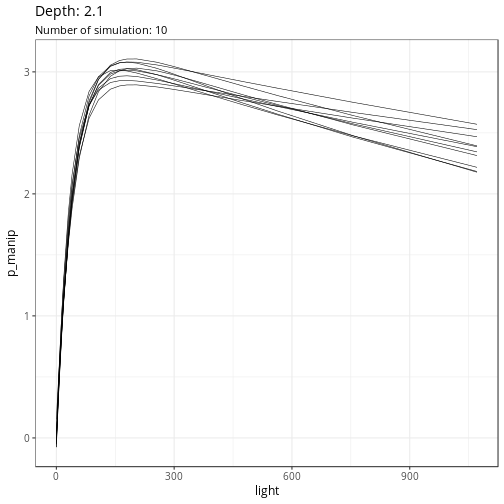
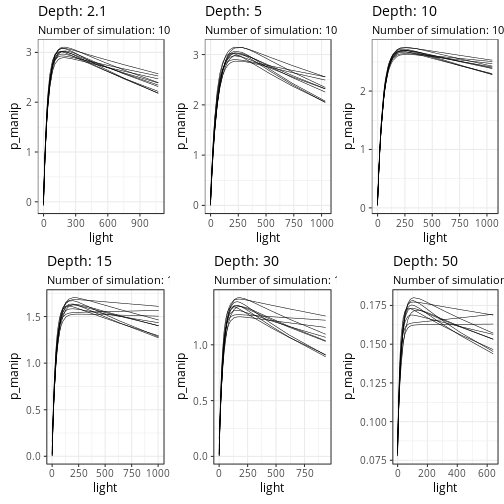
update the calculation

diff --git a/reports/pp.md b/reports/pp.md
@@ -8,7 +8,7 @@
 # <><><><><><><><><><><><><><><><><><><><><><><><><><><><><><><><><><><><><><>
 ```
 
-Last updated: 2016-11-29 15:58:05
+Last updated: 2016-11-29 15:59:02
 ## Open the PS file and do some cleaning
 
 
@@ -227,47 +227,10 @@ NOT FINISHED
 
 
 ```r
-map2(mod$simulation, mod$depth, plot_simulations)
-```
+p <- map2(mod$simulation, mod$depth, plot_simulations)
 
-```
-## [[1]]
+cowplot::plot_grid(plotlist = p)
 ```
 
 ![plot of chunk unnamed-chunk-11](pp//unnamed-chunk-11-1.png)
-
-```
-## 
-## [[2]]
-```
-
-![plot of chunk unnamed-chunk-11](pp//unnamed-chunk-11-2.png)
-
-```
-## 
-## [[3]]
-```
-
-![plot of chunk unnamed-chunk-11](pp//unnamed-chunk-11-3.png)
-
-```
-## 
-## [[4]]
-```
-
-![plot of chunk unnamed-chunk-11](pp//unnamed-chunk-11-4.png)
-
-```
-## 
-## [[5]]
-```
-
-![plot of chunk unnamed-chunk-11](pp//unnamed-chunk-11-5.png)
-
-```
-## 
-## [[6]]
-```
-
-![plot of chunk unnamed-chunk-11](pp//unnamed-chunk-11-6.png)
 
